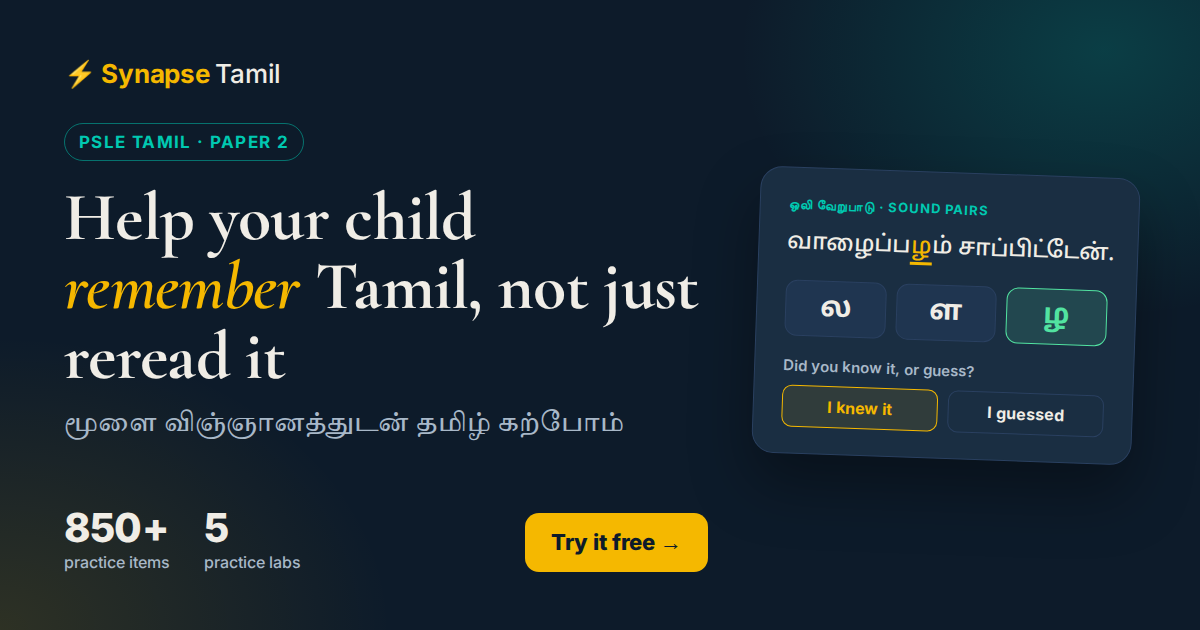
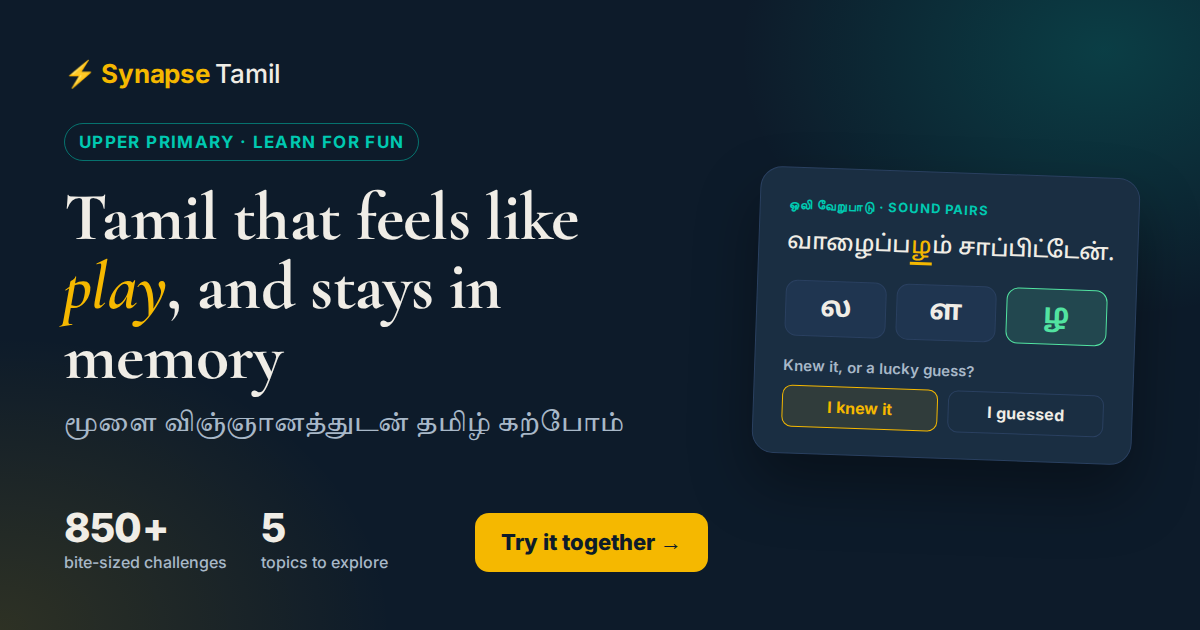
Share preview: lighter, learn-for-fun wording; upper primary instead of P6
Claude-Session: https://claude.ai/code/session_01YHBjwQSepAYwMVyAQ86DPA

diff --git a/index.html b/index.html
@@ -3,9 +3,9 @@
 <head>
 <meta charset="UTF-8">
 <meta name="viewport" content="width=device-width,initial-scale=1,viewport-fit=cover">
-<meta name="description" content="Short drills for P6: your child recalls each answer before seeing it, and anything they guessed comes back sooner. 850+ items on வேற்றுமை, செய்யுள், எச்சம், ஒலி and vocabulary. Free to try.">
-<meta property="og:title" content="Synapse Tamil: PSLE Tamil Paper 2 practice that sticks">
-<meta property="og:description" content="Short drills for P6: your child recalls each answer before seeing it, and anything they guessed comes back sooner. 850+ items on வேற்றுமை, செய்யுள், எச்சம், ஒலி and vocabulary. Free to try.">
+<meta name="description" content="Quick, playful Tamil challenges for upper primary kids. Try a few minutes together, no pressure: they answer from memory, say if they guessed, and the tricky ones come back later. Free to try.">
+<meta property="og:title" content="Synapse Tamil: Tamil that feels like play, and sticks">
+<meta property="og:description" content="Quick, playful Tamil challenges for upper primary kids. Try a few minutes together, no pressure: they answer from memory, say if they guessed, and the tricky ones come back later. Free to try.">
 <meta property="og:type" content="website">
 <meta property="og:site_name" content="Synapse Tamil">
 <meta property="og:url" content="https://synapse-tamil.vercel.app/">
@@ -13,12 +13,12 @@
 <meta property="og:image:type" content="image/png">
 <meta property="og:image:width" content="1200">
 <meta property="og:image:height" content="630">
-<meta property="og:image:alt" content="Synapse Tamil: help your child remember Tamil, not just reread it. 850+ PSLE Tamil practice items.">
+<meta property="og:image:alt" content="Synapse Tamil: learn Tamil for fun, remember it for longer. 850+ bite-sized challenges for upper primary.">
 <meta name="twitter:card" content="summary_large_image">
-<meta name="twitter:title" content="Synapse Tamil: PSLE Tamil Paper 2 practice that sticks">
-<meta name="twitter:description" content="Short drills for P6: your child recalls each answer before seeing it, and anything they guessed comes back sooner. 850+ items on வேற்றுமை, செய்யுள், எச்சம், ஒலி and vocabulary. Free to try.">
+<meta name="twitter:title" content="Synapse Tamil: Tamil that feels like play, and sticks">
+<meta name="twitter:description" content="Quick, playful Tamil challenges for upper primary kids. Try a few minutes together, no pressure: they answer from memory, say if they guessed, and the tricky ones come back later. Free to try.">
 <meta name="twitter:image" content="https://synapse-tamil.vercel.app/assets/og-image.png">
-<meta name="twitter:image:alt" content="Synapse Tamil: help your child remember Tamil, not just reread it. 850+ PSLE Tamil practice items.">
+<meta name="twitter:image:alt" content="Synapse Tamil: learn Tamil for fun, remember it for longer. 850+ bite-sized challenges for upper primary.">
 <link rel="icon" href="favicon.svg" type="image/svg+xml">
 
 <style id="nav-shared">

diff --git a/sol.html b/sol.html
@@ -3,9 +3,9 @@
 <head>
 <meta charset="UTF-8">
 <meta name="viewport" content="width=device-width,initial-scale=1,viewport-fit=cover">
-<meta name="description" content="315 P6 vocabulary words and 108 composition phrases across 25 emotional themes.">
+<meta name="description" content="315 upper primary vocabulary words and 108 composition phrases across 25 emotional themes.">
 <meta property="og:title" content="Synapse Sol Lab">
-<meta property="og:description" content="315 P6 vocabulary words and 108 composition phrases across 25 emotional themes.">
+<meta property="og:description" content="315 upper primary vocabulary words and 108 composition phrases across 25 emotional themes.">
 <meta property="og:type" content="website">
 <meta property="og:site_name" content="Synapse Tamil">
 <meta property="og:url" content="https://synapse-tamil.vercel.app/sol">
@@ -13,12 +13,12 @@
 <meta property="og:image:type" content="image/png">
 <meta property="og:image:width" content="1200">
 <meta property="og:image:height" content="630">
-<meta property="og:image:alt" content="Synapse Tamil: help your child remember Tamil, not just reread it. 850+ PSLE Tamil practice items.">
+<meta property="og:image:alt" content="Synapse Tamil: learn Tamil for fun, remember it for longer. 850+ bite-sized challenges for upper primary.">
 <meta name="twitter:card" content="summary_large_image">
 <meta name="twitter:title" content="Synapse Sol Lab">
-<meta name="twitter:description" content="315 P6 vocabulary words and 108 composition phrases across 25 emotional themes.">
+<meta name="twitter:description" content="315 upper primary vocabulary words and 108 composition phrases across 25 emotional themes.">
 <meta name="twitter:image" content="https://synapse-tamil.vercel.app/assets/og-image.png">
-<meta name="twitter:image:alt" content="Synapse Tamil: help your child remember Tamil, not just reread it. 850+ PSLE Tamil practice items.">
+<meta name="twitter:image:alt" content="Synapse Tamil: learn Tamil for fun, remember it for longer. 850+ bite-sized challenges for upper primary.">
 <link rel="icon" href="favicon.svg" type="image/svg+xml">
 
 <style id="nav-shared">

diff --git a/docs/share/og-image.html b/docs/share/og-image.html
@@ -39,13 +39,13 @@ h1 em{color:#F5B800;font-style:italic}
 <div class="wrap">
   <div class="left">
     <div class="brand">⚡ Synapse <span>Tamil</span></div>
-    <div class="kicker">PSLE Tamil · Paper 2</div>
-    <h1>Help your child <em>remember</em> Tamil, not just reread it</h1>
+    <div class="kicker">Upper primary · Learn for fun</div>
+    <h1>Tamil that feels like <em>play</em>, and stays in memory</h1>
     <div class="ta">மூளை விஞ்ஞானத்துடன் தமிழ் கற்போம்</div>
     <div class="stats">
-      <div class="stat"><b>850+</b><small>practice items</small></div>
-      <div class="stat"><b>5</b><small>practice labs</small></div>
-      <div class="cta">Try it free →</div>
+      <div class="stat"><b>850+</b><small>bite-sized challenges</small></div>
+      <div class="stat"><b>5</b><small>topics to explore</small></div>
+      <div class="cta">Try it together →</div>
     </div>
   </div>
   <div class="right">
@@ -53,7 +53,7 @@ h1 em{color:#F5B800;font-style:italic}
       <div class="tag">ஒலி வேறுபாடு · Sound pairs</div>
       <div class="q">வாழைப்ப<u>ழ</u>ம் சாப்பிட்டேன்.</div>
       <div class="opts"><div class="opt">ல</div><div class="opt">ள</div><div class="opt ok">ழ</div></div>
-      <div class="conf">Did you know it, or guess?</div>
+      <div class="conf">Knew it, or a lucky guess?</div>
       <div class="cbtn"><div class="on">I knew it</div><div>I guessed</div></div>
     </div>
   </div>

diff --git a/echam.html b/echam.html
@@ -13,12 +13,12 @@
 <meta property="og:image:type" content="image/png">
 <meta property="og:image:width" content="1200">
 <meta property="og:image:height" content="630">
-<meta property="og:image:alt" content="Synapse Tamil: help your child remember Tamil, not just reread it. 850+ PSLE Tamil practice items.">
+<meta property="og:image:alt" content="Synapse Tamil: learn Tamil for fun, remember it for longer. 850+ bite-sized challenges for upper primary.">
 <meta name="twitter:card" content="summary_large_image">
 <meta name="twitter:title" content="Synapse Echam Lab">
 <meta name="twitter:description" content="Identify and apply பெயரெச்சம், வினையெச்சம் and other participle patterns. A3 Paper 2.">
 <meta name="twitter:image" content="https://synapse-tamil.vercel.app/assets/og-image.png">
-<meta name="twitter:image:alt" content="Synapse Tamil: help your child remember Tamil, not just reread it. 850+ PSLE Tamil practice items.">
+<meta name="twitter:image:alt" content="Synapse Tamil: learn Tamil for fun, remember it for longer. 850+ bite-sized challenges for upper primary.">
 <link rel="icon" href="favicon.svg" type="image/svg+xml">
 
 <style id="nav-shared">

diff --git a/veerrumai.html b/veerrumai.html
@@ -13,12 +13,12 @@
 <meta property="og:image:type" content="image/png">
 <meta property="og:image:width" content="1200">
 <meta property="og:image:height" content="630">
-<meta property="og:image:alt" content="Synapse Tamil: help your child remember Tamil, not just reread it. 850+ PSLE Tamil practice items.">
+<meta property="og:image:alt" content="Synapse Tamil: learn Tamil for fun, remember it for longer. 850+ bite-sized challenges for upper primary.">
 <meta name="twitter:card" content="summary_large_image">
 <meta name="twitter:title" content="Synapse Veerrumai Lab">
 <meta name="twitter:description" content="Drill all 8 Tamil case markers (வேற்றுமை) with spaced repetition. 10 marks, A1 Paper 2.">
 <meta name="twitter:image" content="https://synapse-tamil.vercel.app/assets/og-image.png">
-<meta name="twitter:image:alt" content="Synapse Tamil: help your child remember Tamil, not just reread it. 850+ PSLE Tamil practice items.">
+<meta name="twitter:image:alt" content="Synapse Tamil: learn Tamil for fun, remember it for longer. 850+ bite-sized challenges for upper primary.">
 <link rel="icon" href="favicon.svg" type="image/svg+xml">
 
 <style id="nav-shared">

diff --git a/oli.html b/oli.html
@@ -13,12 +13,12 @@
 <meta property="og:image:type" content="image/png">
 <meta property="og:image:width" content="1200">
 <meta property="og:image:height" content="630">
-<meta property="og:image:alt" content="Synapse Tamil: help your child remember Tamil, not just reread it. 850+ PSLE Tamil practice items.">
+<meta property="og:image:alt" content="Synapse Tamil: learn Tamil for fun, remember it for longer. 850+ bite-sized challenges for upper primary.">
 <meta name="twitter:card" content="summary_large_image">
 <meta name="twitter:title" content="Synapse Oli Lab">
 <meta name="twitter:description" content="Master Tamil sound pair distinctions ல/ள/ழ · ர/ற · ந/ன/ண. C6 Paper 2, 8 marks.">
 <meta name="twitter:image" content="https://synapse-tamil.vercel.app/assets/og-image.png">
-<meta name="twitter:image:alt" content="Synapse Tamil: help your child remember Tamil, not just reread it. 850+ PSLE Tamil practice items.">
+<meta name="twitter:image:alt" content="Synapse Tamil: learn Tamil for fun, remember it for longer. 850+ bite-sized challenges for upper primary.">
 <link rel="icon" href="favicon.svg" type="image/svg+xml">
 
 <style id="nav-shared">

diff --git a/seyyul.html b/seyyul.html
@@ -13,12 +13,12 @@
 <meta property="og:image:type" content="image/png">
 <meta property="og:image:width" content="1200">
 <meta property="og:image:height" content="630">
-<meta property="og:image:alt" content="Synapse Tamil: help your child remember Tamil, not just reread it. 850+ PSLE Tamil practice items.">
+<meta property="og:image:alt" content="Synapse Tamil: learn Tamil for fun, remember it for longer. 850+ bite-sized challenges for upper primary.">
 <meta name="twitter:card" content="summary_large_image">
 <meta name="twitter:title" content="Synapse Seyyul Lab">
 <meta name="twitter:description" content="Memorise PSLE Tamil verse lines with fill-gap and build-the-line drills. A2 Paper 2.">
 <meta name="twitter:image" content="https://synapse-tamil.vercel.app/assets/og-image.png">
-<meta name="twitter:image:alt" content="Synapse Tamil: help your child remember Tamil, not just reread it. 850+ PSLE Tamil practice items.">
+<meta name="twitter:image:alt" content="Synapse Tamil: learn Tamil for fun, remember it for longer. 850+ bite-sized challenges for upper primary.">
 <link rel="icon" href="favicon.svg" type="image/svg+xml">
 
 <style id="nav-shared">
